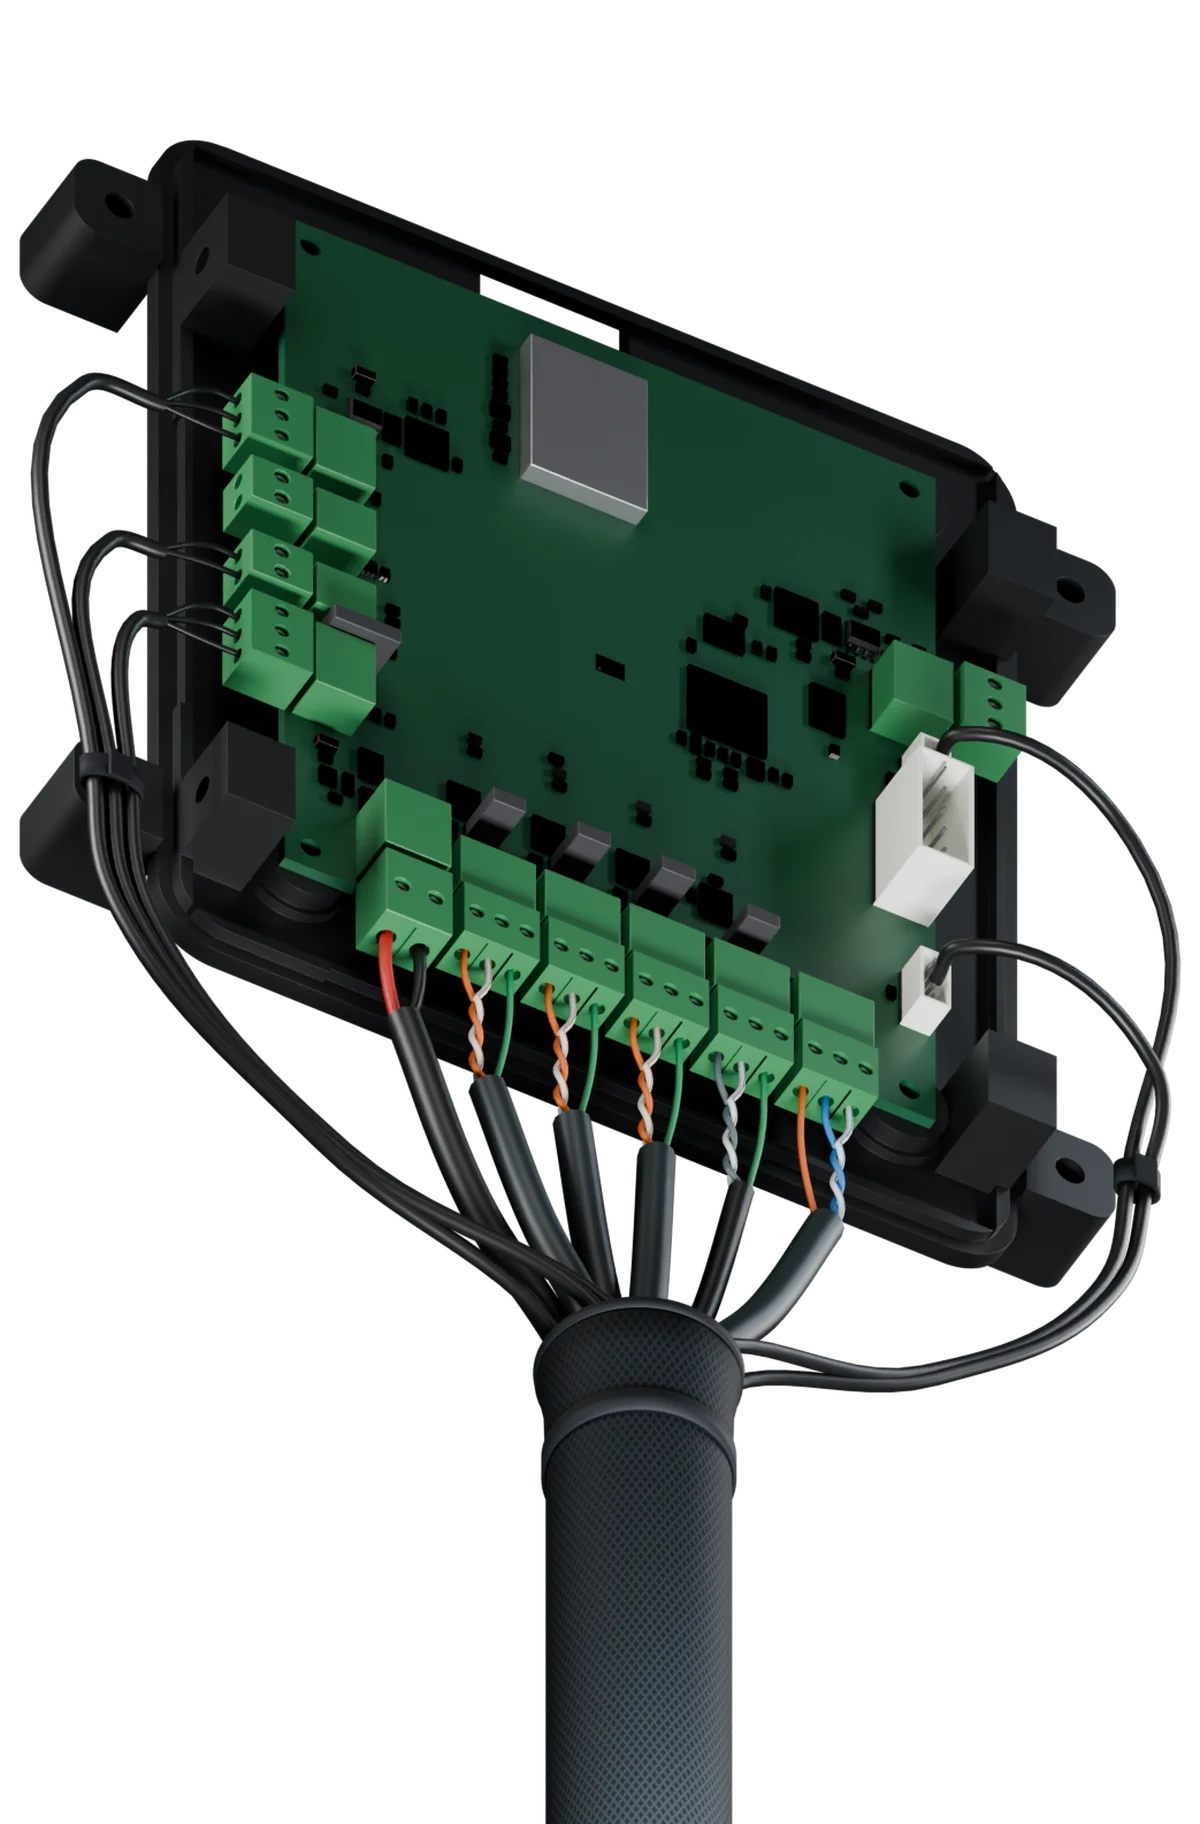
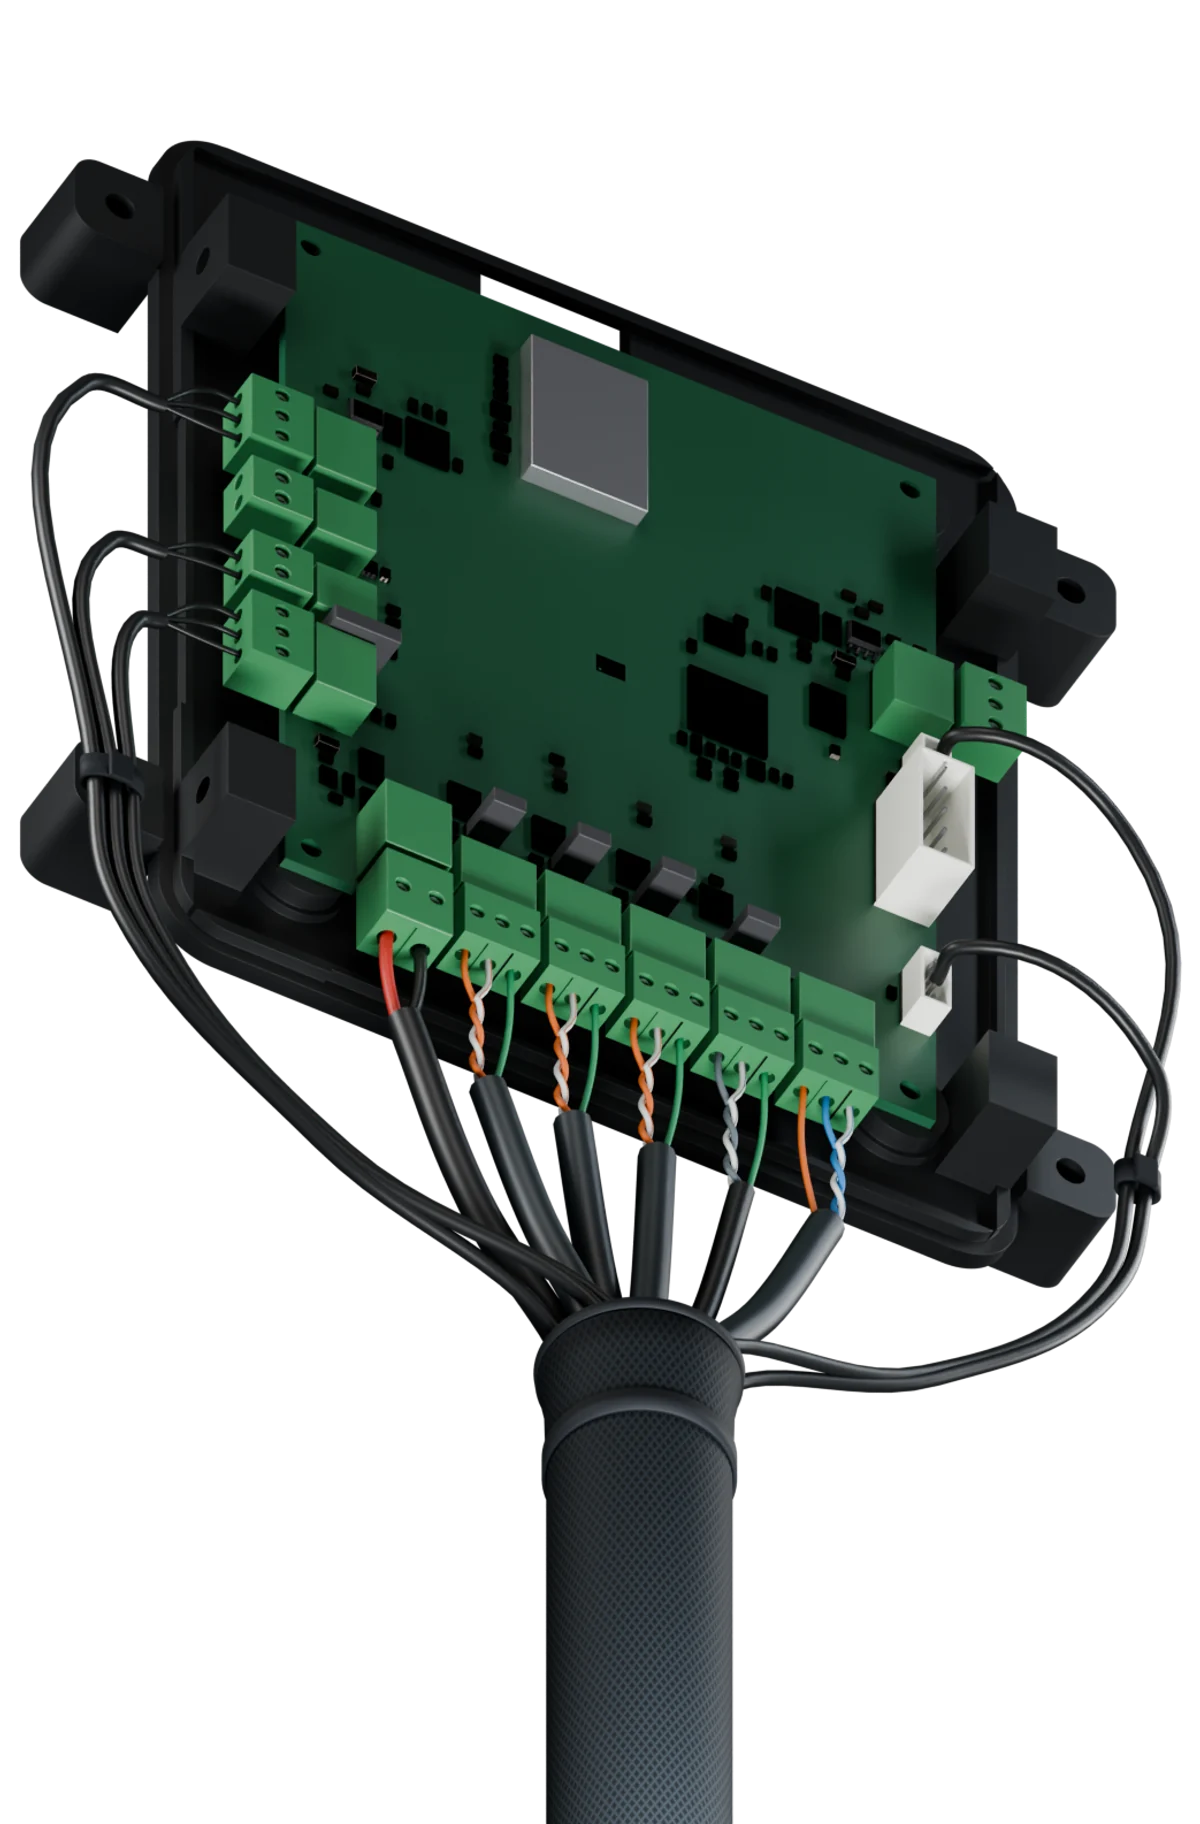
chore: add controller still render scripts (#5)

diff --git a/apps/website/scripts/render-controller-reveal.py b/apps/website/scripts/render-controller-reveal.py
@@ -1,0 +1,69 @@
+"""Render the Products page controller plates from the CAD scene without saving over it."""
+import argparse
+import json
+import hashlib
+from pathlib import Path
+import sys
+
+import bpy
+
+parser = argparse.ArgumentParser(description=__doc__)
+parser.add_argument("--scene",type=Path,required=True)
+parser.add_argument("--output",type=Path,required=True)
+parser.add_argument("--size",type=int,default=1440)
+parser.add_argument("--samples",type=int,default=128)
+args = parser.parse_args(sys.argv[sys.argv.index("--")+1:] if "--" in sys.argv else [])
+if args.size < 128 or args.samples < 1:
+    parser.error("size must be >= 128 and samples >= 1")
+args.output.mkdir(parents=True,exist_ok=True)
+source_hash = hashlib.sha256(args.scene.read_bytes()).hexdigest()
+
+for plate in ("closed","base"):
+    bpy.ops.wm.open_mainfile(filepath=str(args.scene.resolve()))
+    scene = bpy.context.scene
+    controls = bpy.data.objects["O89 Controls"]
+    for key,value in {"production_label":False,"cover_lift_mm":0.0,"show_enclosure":True,
+                      "show_cables":True,"show_cable_sleeve":True,"show_bus_layout":False,
+                      "led_on":True}.items():
+        controls[key] = value
+    controls.update_tag()
+    bpy.context.view_layer.update()
+    # Both plates use the saved Hero camera and the full pixel frame.
+    scene.camera = bpy.data.objects["Camera | Hero"]
+    scene.render.resolution_x = args.size
+    scene.render.resolution_y = round(args.size*9/8)
+    scene.render.resolution_percentage = 100
+    scene.render.film_transparent = True
+    scene.render.image_settings.file_format = "PNG"
+    scene.render.image_settings.color_mode = "RGBA"
+    scene.cycles.samples = args.samples
+    scene.cycles.seed = 89
+    scene.cycles.use_denoising = True
+    if plate == "base":
+        cover = bpy.data.objects["Cover | lift with O89 Controls"]
+        for obj in cover.children_recursive:
+            if obj.type not in ("MESH","CURVE","FONT","SURFACE","META"):
+                continue
+            if obj.animation_data:
+                for driver in list(obj.animation_data.drivers):
+                    if driver.data_path == "hide_render":
+                        obj.driver_remove("hide_render")
+            obj.hide_render = True
+    prefs = bpy.context.preferences.addons["cycles"].preferences
+    try:
+        prefs.compute_device_type = "METAL"
+        prefs.get_devices()
+        if any(d.type == "METAL" for d in prefs.devices):
+            for device in prefs.devices:
+                device.use = device.type == "METAL"
+            scene.cycles.device = "GPU"
+    except (TypeError,RuntimeError):
+        scene.cycles.device = "CPU"
+    scene.render.filepath = str((args.output/(plate+".png")).resolve())
+    bpy.ops.render.render(write_still=True)
+    metadata = {"plate":plate,"width":scene.render.resolution_x,"height":scene.render.resolution_y,
+                "camera":[list(row) for row in scene.camera.matrix_world],
+                "ortho_scale":scene.camera.data.ortho_scale,"scene_sha256":source_hash,
+                "pcb_sha256":scene["pcb_sha256"]}
+    (args.output/(plate+".json")).write_text(json.dumps(metadata,indent=2)+"\n")
+    print("REVEAL PLATE",plate)

diff --git a/apps/website/src/assets/product/README.md b/apps/website/src/assets/product/README.md
@@ -1,16 +1,14 @@
 # Product renders
 
-`controller.webp` (still, status lamp lit) and `controller-live.webp`
-(two-frame heartbeat: 160 ms on, 1140 ms off — "slow blink = running", the
-lamp vocabulary in [controller documentation](https://docs.origin89.com))
-are **rendered in Blender from the real CAD**: the enclosure from `shoe.py` and
-board A from its EasyEDA STEP export, both in
-[origin89hq/hardware](https://github.com/origin89hq/hardware). The Blender
-scene itself is not published; it carries satin-black nylon, clean branding and
-the production transfers as a switchable alternative.
+The controller images are **rendered in Blender from the real CAD**: the
+enclosure from `shoe.py` and board A from its EasyEDA STEP export. The scene,
+[`enclosure/blender/origin89.blend`](https://github.com/origin89hq/hardware/tree/main/enclosure/blender)
+in origin89hq/hardware, carries satin-black nylon, clean branding and the
+production transfers as a switchable alternative. Its README covers cameras,
+controls and what the saved file was built from.
 
-To regenerate, render the saved scene so manual edits survive, or rebuild from
-the CAD when a dimension changes there. Do not hand-edit the webps.
+To regenerate, render the saved scene so manual edits survive, or rebuild it
+in the hardware repository when the CAD changes. Do not hand-edit the webps.
 
 ## Homepage controller study
 
@@ -33,6 +31,21 @@ plates for a reversible scroll reveal and explicit open/zoom controls. Connectio
 points lead to equipment searches; their positions illustrate the terminal row,
 not pin-level wiring instructions. Cover movement is a presentation animation,
 not a mechanical disassembly simulation. Reduced motion uses immediate controls.
+
+## Products page stills
+
+`controller-reveal-closed-1200.webp` and `controller-reveal-base-1200.webp` show
+the closed controller and the board with the cover hidden, harness and sleeve
+included, from the scene's saved Hero camera. Both plates share one crop: the
+union of their alpha bounds at the sides and top, and the full height because
+the harness runs off the bottom of the frame. `controller-reveal.json` records
+the crop with the scene and PCB hashes.
+
+```sh
+blender --background --python-exit-code 1 --python scripts/render-controller-reveal.py -- \
+  --scene /path/to/origin89.blend --output /tmp/controller-reveal
+node scripts/package-controller-reveal.mjs /tmp/controller-reveal
+```
 
 ## Website consumers
 
@@ -65,9 +78,7 @@ presentation finish and connector approximations described below:
   nothing has to colour-match the page. (An earlier version of this file
   required a baked flat background — that rule was for image-model output,
   which cannot hand back a real alpha channel. Cycles can.)
-- Both LED states are rendered directly from the saved Blender scene with
-  matching camera, seed and resolution. `blender/package_web.py` converts
-  and packages them into a still and animated WebP.
+- The status light is rendered in Blender, never painted in afterwards.
 - Crop comes from the content's alpha bbox, never from fixed numbers — a
   guessed crop has already sliced cables and mounting ears twice.
 
